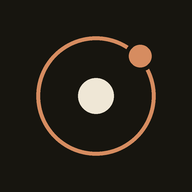
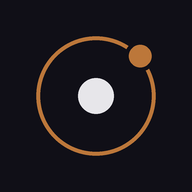
feat: palette solved for contrast, night-sky dark theme
The old palette failed WCAG AA in two places: field labels at 2.63:1 in
light and the primary button's white text at 2.70:1 in dark, against
4.5:1 required. Every pair in the new one was solved numerically rather
than picked by eye, and verified in the running app: light 15.70 / 5.47 /
4.58 / 4.59 / 4.60, dark 15.33 / 6.03 / 4.60 / 5.01 / 5.22.

Light stays warm paper. Dark becomes deep indigo night sky rather than
dark paper: no pure black, surfaces lifted in steps, accent desaturated so
it does not vibrate. Button text is now dark on the light accent, which is
what fixes the 2.70:1 failure and reads better besides.

Icons redrawn on the indigo ground, manifest and theme-color follow, cache
bumped to v3 since precached files changed.

Changed region(s): [[0.1875, 0.1875, 0.8125, 0.8125]]

diff --git a/index.html b/index.html
@@ -3,8 +3,8 @@
 <title>AstroTrip</title>
 <link rel="manifest" href="./manifest.json">
 <!-- Browser chrome follows the active scheme, same as the UI itself -->
-<meta name="theme-color" content="#f6f2ea" media="(prefers-color-scheme: light)">
-<meta name="theme-color" content="#17150f" media="(prefers-color-scheme: dark)">
+<meta name="theme-color" content="#f9f7f3" media="(prefers-color-scheme: light)">
+<meta name="theme-color" content="#100f17" media="(prefers-color-scheme: dark)">
 <link rel="icon" href="./icon-192.png">
 <link rel="apple-touch-icon" href="./apple-touch-icon.png">
 <meta name="apple-mobile-web-app-capable" content="yes">
@@ -29,9 +29,13 @@
 @font-face{font-family:'Literata';src:url(./literata-500.woff2) format('woff2');
   font-weight:500;font-style:normal;font-display:swap}
 :root{
-  --paper:#f6f2ea; --paper2:#efe9dd; --paper3:#e6dece; --line:#d8cfba;
-  --ink:#211d18; --ink2:#5f574a; --ink3:#9a8f7c;
-  --accent:#b5714a; --axis:#c04f86; --mc:#3f6ea5;
+  /* Palette solved for contrast, not picked by eye: every text/background pair
+     clears WCAG AA. The old one failed twice, labels at 2.63:1 in light and the
+     primary button's white text at 2.70:1 in dark, against 4.5:1 required. */
+  --paper:#f9f7f3; --paper2:#f4f0e9; --paper3:#ede7da; --line:#e1d8c6;
+  --ink:#201d18; --ink2:#686050; --ink3:#746c5b;
+  --accent:#9d5d25; --accentBtn:#aa6428; --accentInk:#ffffff;
+  --axis:#c04f86; --mc:#3f6ea5;
   --harm:#3f6ea5; --hard:#c0685c; --conj:#7d8a6a;
   --wheelbg:#eef4f5;
   --fire:#e39a86; --earth:#a9c99a; --air:#e6d38a; --water:#8fc7d4;
@@ -40,12 +44,16 @@
 }
 @media (prefers-color-scheme: dark){
   :root{
-    --paper:#17150f; --paper2:#1f1c15; --paper3:#272319; --line:#38321f;
-    --ink:#efe7d6; --ink2:#b3a892; --ink3:#7c7360;
-    --accent:#d68c60; --wheelbg:#12171a;
+    /* Night sky rather than dark paper: deep indigo, no pure black, surfaces
+       lifted step by step. Button text is dark on the light accent, which is
+       what fixes the 2.70:1 failure and reads better besides. */
+    --paper:#100f17; --paper2:#171520; --paper3:#201e2c; --line:#332f43;
+    --ink:#e7e6ea; --ink2:#9693a6; --ink3:#827e93;
+    --accent:#bc773a; --accentBtn:#bc773a; --accentInk:#12101e;
+    --wheelbg:#0e1320;
     --axis:#d67aa6; --mc:#6f9fd0; --harm:#6f9fd0;
     --fire:#a86a58; --earth:#6f8a62; --air:#a89454; --water:#5c8a94;
-    --glass:rgba(23,21,15,.72);
+    --glass:rgba(16,15,23,.72);
   }
 }
 *{box-sizing:border-box}
@@ -71,10 +79,10 @@ input,select{
 .grid{display:grid;grid-template-columns:1fr 1fr;gap:10px}
 .grid3{display:grid;grid-template-columns:1fr 1fr 1fr;gap:10px}
 button{font:inherit;cursor:pointer;border-radius:10px;border:1px solid var(--line);background:var(--paper3);color:var(--ink);padding:9px 14px}
-button.primary{background:var(--accent);border-color:var(--accent);color:#fff}
+button.primary{background:var(--accentBtn);border-color:var(--accentBtn);color:var(--accentInk)}
 .lang{display:flex;border:1px solid var(--line);border-radius:9px;overflow:hidden;flex:none}
 .lang button{border:none;border-radius:0;padding:6px 11px;background:var(--paper2);font-size:13px}
-.lang button.on{background:var(--accent);color:#fff}
+.lang button.on{background:var(--accentBtn);color:var(--accentInk)}
 .mono,.deg{font-variant-numeric:tabular-nums;font-feature-settings:"tnum"}
 svg{display:block;width:100%;height:auto;touch-action:manipulation}
 .af{font-family:'Astro','Segoe UI Symbol','Apple Symbols',serif;font-style:normal}
@@ -96,7 +104,7 @@ svg{display:block;width:100%;height:auto;touch-action:manipulation}
 .transit .bar i{display:block;height:100%;background:var(--accent)}
 .rate{display:flex;gap:6px;flex-wrap:wrap;margin-top:8px;align-items:center}
 .chip{padding:5px 9px;border:1px solid var(--line);border-radius:999px;font-size:12px;cursor:pointer;background:var(--paper2);user-select:none}
-.chip.on{background:var(--accent);border-color:var(--accent);color:#fff}
+.chip.on{background:var(--accentBtn);border-color:var(--accentBtn);color:var(--accentInk)}
 .stars{letter-spacing:2px;font-size:18px;cursor:pointer;user-select:none;color:var(--ink3)}
 .stars b{color:var(--accent);font-weight:400}
 /* Only 400/500 are shipped, so every <b> must be pinned to one of them.

diff --git a/sw.js b/sw.js
@@ -10,7 +10,7 @@
    - other same-origin GETs: cache-first with a background refresh, so icons
      and the manifest load instantly and quietly update.
    Bump CACHE on every deploy that changes a precached file. */
-const CACHE = 'astrotrip-v2';
+const CACHE = 'astrotrip-v3';
 const ASSETS = [
   './',
   './index.html',
